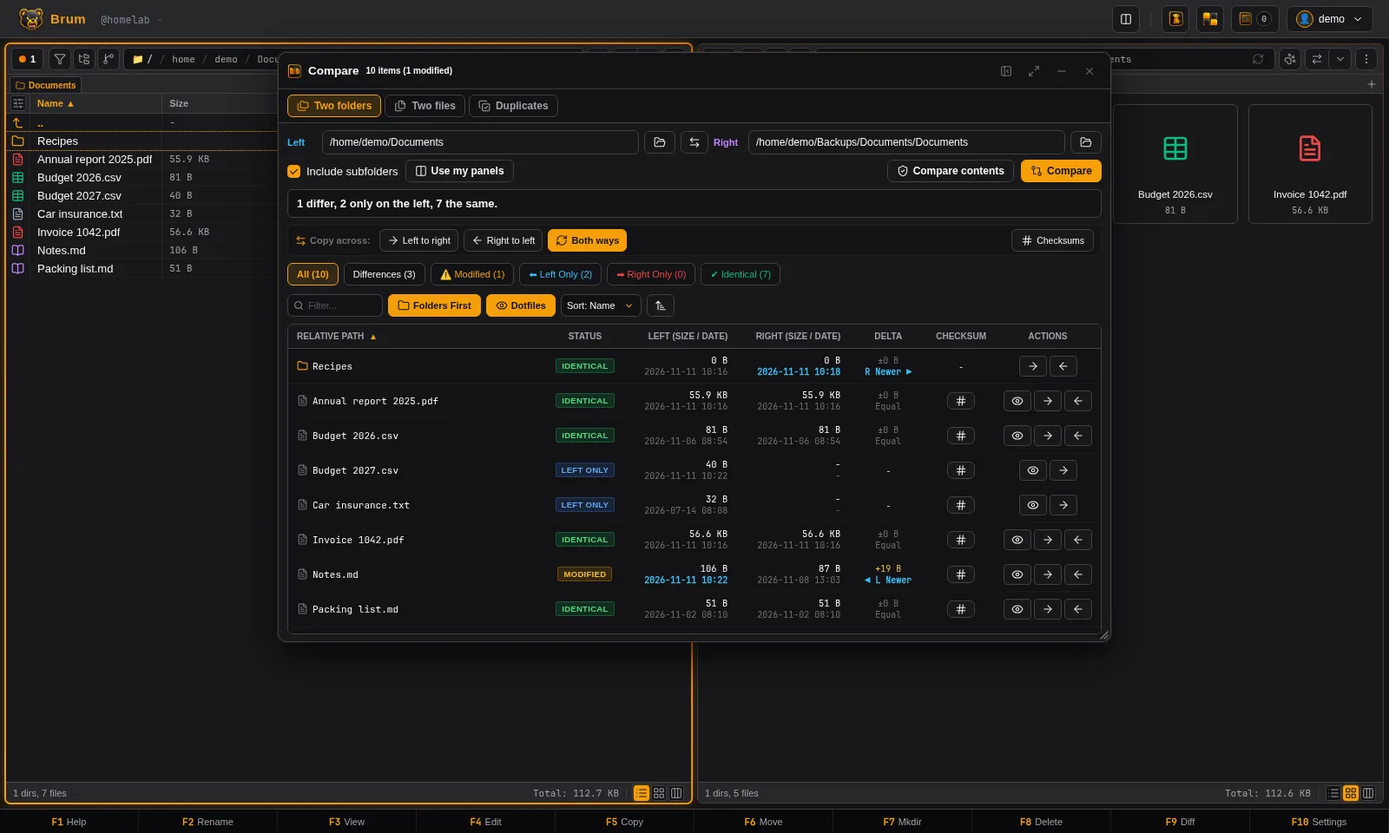
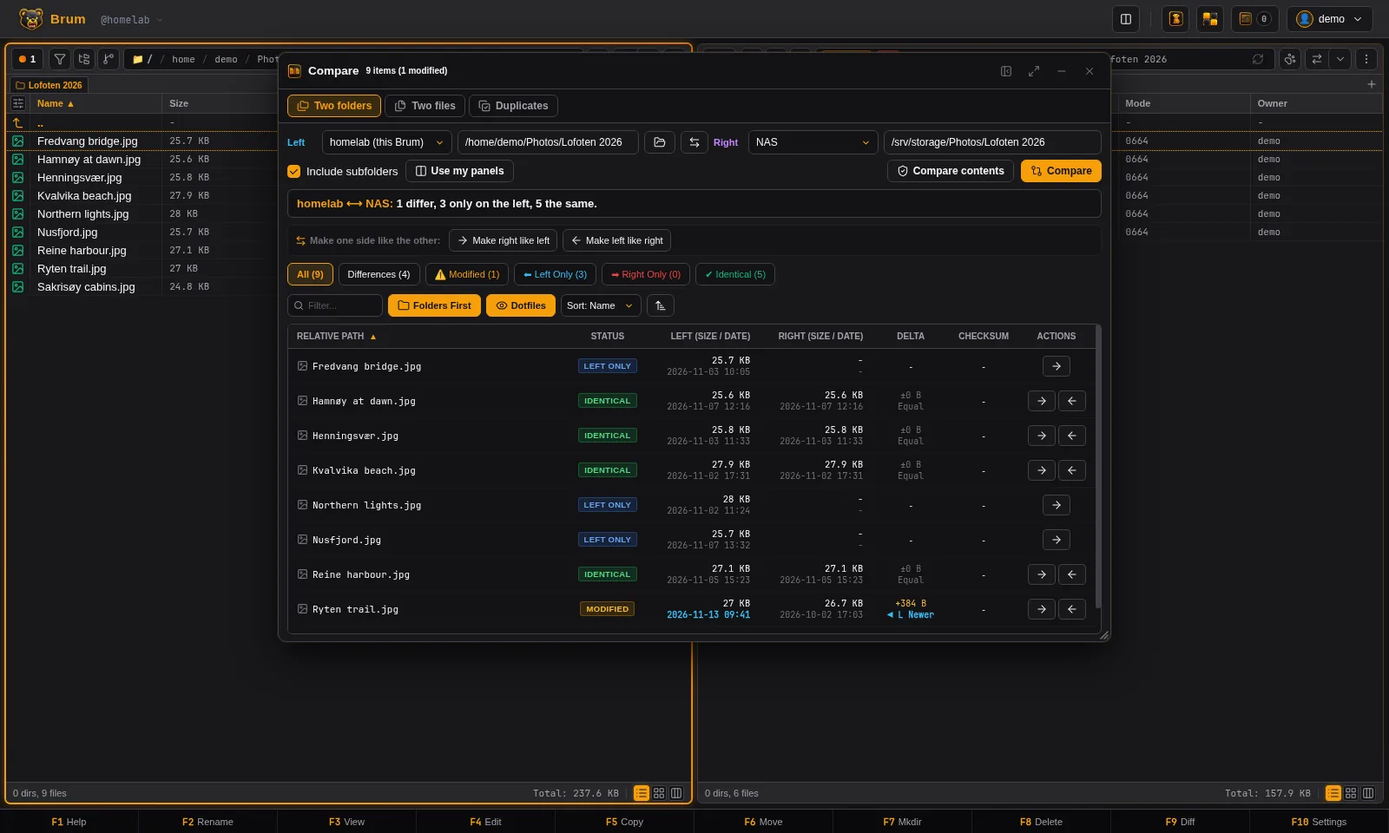
docs: lead with Brum as the file manager for all your machines; Fleet guide and security page (closes #194)

diff --git a/README.md b/README.md
@@ -1,8 +1,8 @@
 # <img src="assets/brum_commanderdog_legacy.webp" alt="Brum Logo" height="36" style="vertical-align: -6px; margin-right: 8px;" /> Brum
 
 <div align="center">
-  <img src="assets/showcase-hero.webp" alt="Brum with two panels: photo thumbnails on the left, the home folder on the right, and the built-in terminal below" width="800" />
-  <p><em>Multi-Pane Web Environment (File Commander/Manager) — By Woofson</em></p>
+  <img src="assets/showcase-hero.webp" alt="Brum with three panels on three machines: photos on this computer, the same folder on the NAS, and films on the media PC" width="800" />
+  <p><em>All your machines, disks and cloud storage in one file manager — By Woofson</em></p>
   <p>
     <a href="https://github.com/Woofson/brum/releases/latest"><img src="https://img.shields.io/badge/version-v1.23.0-amber?style=flat-square&color=f59e0b" alt="Version" /></a>
     <a href="https://crates.io/crates/brum"><img src="https://img.shields.io/crates/v/brum?style=flat-square&color=f59e0b" alt="Crates.io" /></a>
@@ -14,6 +14,8 @@
   </p>
 </div>
 
+Install Brum on each of your machines (desktop, NAS, media PC, a server in a cupboard), join them with a pairing code, and every file on every one of them is a pane away. Next to your local disks, NAS shares and cloud storage, in the browser or as a desktop app.
+
 ---
 
 > [!WARNING]
@@ -21,18 +23,46 @@
 > Brum is designed and intended to run on **local workstations, homelabs, and private overlay networks** (such as Tailscale, NetBird, or WireGuard).
 >
 > **Never expose Brum directly to the public internet.**
-> As a comprehensive administrative environment featuring host filesystem management, integrated terminal PTY execution, and power tools, exposing Brum directly without a trusted VPN or authenticated overlay network introduces significant attack surface. If remote access is necessary, always access Brum through a private overlay mesh or an authenticated VPN. See the [Reverse Proxy & Mesh VPN Guide](manuals/reverse-proxy.md) for recommended deployment topologies.
+> As a comprehensive administrative environment featuring host filesystem management, integrated terminal PTY execution, and power tools, exposing Brum directly without a trusted VPN or authenticated overlay network introduces significant attack surface. If remote access is necessary, always access Brum through a private overlay mesh or an authenticated VPN. See the [Reverse Proxy & Mesh VPN Guide](manuals/reverse-proxy.md) for recommended deployment topologies. How security problems are reported and fixed: [Security](SECURITY.md).
+
+---
+
+## One place for all your machines
+
+Brum calls your machines together a **Fleet**. Each machine runs its own Brum; the one you open in the browser reaches the others for you.
+
+* **Any machine in any pane.** Open the NAS on the left and the media PC on the right, or four machines at once, with the same keys, tabs and tools as your own disks.
+* **Copies straight from machine to machine.** <kbd>F5</kbd> and <kbd>F6</kbd> between two machines are done by the Brum servers, not the browser: the receiving machine fetches the files directly, and only when the two cannot reach each other does your Brum pass them along. Close the tab and the copy carries on.
+* **Copies you can trust.** Every file is checked with SHA-256 on both machines before it replaces anything (on by default), a broken copy never overwrites a good file, and **Retry** picks up a large file where it stopped.
+* **Compare and sync between machines.** Compare a folder on your desktop with its copy on the NAS, see what is missing or changed, preview what a one-way sync would do, and run it or save it as a scheduled backup.
+* **All machines at once.** Search every machine for a file, check one file across all of them, see free space everywhere, and send files to several machines in one go. Group machines with tags to pick them quickly.
+* **Joining takes a code, not a password.** Your main Brum shows a code that works once, for ten minutes; type it on the new machine and the two trust each other. No secrets copied around by hand.
+* **Who can touch what, and who did.** Folder rules per machine (read only, no access, or open a folder to someone), and an activity log of who changed which files, with a CSV export.
+
+**Not a server panel with a file tab.** Tools such as Cockpit or Webmin manage servers and include a file browser. Brum is the other way round: a full two-pane file manager whose job is your files, wherever they are, with server tools (terminal, log viewer, Git) added for convenience. It does not manage services, packages or users of the operating system.
+
+<table>
+  <tr>
+    <td width="50%"><img src="assets/showcase-transfer.webp" alt="A film being copied from the media PC to the NAS, with a finished copy below it marked SHA-256 checked" /><br><sub><b>Copies between machines.</b> Media PC to NAS, directly, with the speed, time left and a checksum check for every file.</sub></td>
+    <td width="50%"><img src="assets/showcase-compare.webp" alt="Compare showing a photo folder on this computer and on the NAS: one changed, three only on this computer, five the same" /><br><sub><b>Compare across machines.</b> A photo folder on this computer against its copy on the NAS, then make one side like the other.</sub></td>
+  </tr>
+  <tr>
+    <td width="50%"><img src="assets/showcase-fleetwide.webp" alt="The All machines window: a search for invoices finds files on three machines" /><br><sub><b>All machines.</b> One search across every machine, grouped by machine; open any hit in a pane.</sub></td>
+    <td width="50%"><img src="assets/showcase-backup.webp" alt="Backup and Sync with three backups and their status" /><br><sub><b>Backup &amp; Sync.</b> Scheduled backups to other Fleet machines, drives, SFTP, rclone remotes and Proton Drive, with old versions kept and restore.</sub></td>
+  </tr>
+</table>
+
+To set up a main Brum and two more machines, see [Several machines in ten minutes](#several-machines-in-ten-minutes).
 
 ---
 
 ## Why Brum?
 
-Brum is a file manager you use in the browser, written in Rust. It follows the classic two-pane style of Total Commander and Midnight Commander, so the keyboard does most of the work, and adds a set of everyday tools (see [Built-in Tools](#built-in-tools)).
+Beyond the Fleet, Brum is a file manager you use in the browser, written in Rust. It follows the classic two-pane style of Total Commander and Midnight Commander, so the keyboard does most of the work, and adds a set of everyday tools (see [Built-in Tools](#built-in-tools)).
 
 * **Up to four panes**, each with its own tabs. Copy, move and compare between them with the classic <kbd>F1</kbd>–<kbd>F10</kbd> keys, drag and drop, or touch.
-* **Local and remote in one view**: your disks and USB drives next to SFTP, SMB, WebDAV, S3, NFS and Proton Drive. You can also browse inside archives and disk images.
+* **Local and remote storage in one view**: your disks and USB drives next to SFTP, SMB, WebDAV, S3, NFS and Proton Drive. You can also browse inside archives and disk images.
 * **Several users**, each limited to their own folders, with optional read-only accounts and sign-in through your own identity provider (OIDC).
-* **Fleet**: manage other Brum servers from the same window.
 * **Runs where you need it**: as a desktop app on Linux and Windows, in Docker on a server or NAS, or as a background service.
 
 ---
@@ -42,10 +72,6 @@ Brum is a file manager you use in the browser, written in Rust. It follows the c
 <table>
   <tr>
     <td width="50%"><img src="assets/showcase-light.webp" alt="Brum in the light theme, Woofsons Amber Zink" /><br><sub><b>Two themes.</b> Woofsons Amber Charcoal and Woofsons Amber Zink (shown), with list, grid and column views.</sub></td>
-    <td width="50%"><img src="assets/showcase-backup.webp" alt="Backup and Sync with three backups and their status" /><br><sub><b>Backup &amp; Sync.</b> Plain status lines, schedules, old versions kept, and restore. To folders, SFTP, rclone remotes, Fleet machines and Proton Drive.</sub></td>
-  </tr>
-  <tr>
-    <td width="50%"><img src="assets/showcase-compare.webp" alt="Compare showing two folders with one changed file and two files only on the left" /><br><sub><b>Compare.</b> Two folders, two files or duplicates, and copy the differences across in either direction.</sub></td>
     <td width="50%"><img src="assets/showcase-viewer.webp" alt="A photo open in the picture viewer" /><br><sub><b>Viewers.</b> Pictures, documents, audio and video open in place, with the next file one key away.</sub></td>
   </tr>
 </table>
@@ -91,6 +117,18 @@ cargo run --release        # Open http://localhost:3140 in your browser
 > - **Desktop & Standalone**: Standalone desktop mode (`brum` / `brum -s`) automatically authorizes the active local operating system user without requiring a password.
 > - **Linux Host Accounts (PAM)**: When running on Linux, any valid local system account can log in directly via PAM.
 > - **Existing Databases**: Upgrades and existing installations retain their previously configured passwords.
+
+### Several machines in ten minutes
+
+A main Brum (the one you open in the browser) and two more machines, for example a NAS and a media PC:
+
+1. **Install Brum on all three** (any of the ways above). On the two extra machines, let Brum listen on the network: `host = "0.0.0.0"` under `[server]` in `config.toml` (or the machine's overlay address, such as its Tailscale or NetBird IP), then restart it.
+2. **Make a code on the main Brum**: sign in as admin, click the machine name at the top left (**Fleet Control**) → **Manage Fleet** → **Add machine**. Brum shows a code such as `9WBN-C4C7` that works once, for ten minutes, together with the command to run.
+3. **Join from the NAS**: run `sudo brum join http://main-brum:3140 9WBN-C4C7 --name nas` and restart Brum there. Or open Brum on the NAS and use **Manage Fleet** → **Join a Fleet**, which restarts by itself.
+4. **Repeat for the media PC** with a new code.
+5. **Use them**: on the main Brum, the paw button in a pane's toolbar (**Places & Fleet**) lists your machines; pick one to open it in that pane. **Tools → All machines** searches all three at once.
+
+People need an account with the same name on each machine they use. Details, including what to know about trust and unencrypted networks: [Several machines (Fleet)](manuals/fleet.md).
 
 ---
 
@@ -148,6 +186,7 @@ Everything below ships inside the single Brum program. Tools that rely on a prog
 
 All operational runbooks, platform guides, and security manuals are available on the [**Official GitHub Wiki**](https://github.com/Woofson/brum/wiki) and organized in [**`manuals/`**](manuals/README.md):
 
+* [**Several machines (Fleet)**](manuals/fleet.md) — Setting up a main Brum and more machines, pairing codes, copies, compare and sync, All machines, folder rules, activity log.
 * [**Power Tools & Chewtoys Manual**](manuals/chewtoys.md) — 3D CAD Studio, Splitter & Combiner, PDF Studio, Sharing Center, Disk Usage, Notes, Media Player, Terminal, Vaults.
 * [**Keyboard Shortcuts & Navigation**](manuals/shortcuts.md) — Orthodox <kbd>F1</kbd>–<kbd>F10</kbd> keys, media player keys, touch gestures.
 * [**Configuration Guide (`config.toml`)**](manuals/configuration.md) — Master config options, storage roots, sandboxing.
@@ -161,6 +200,7 @@ All operational runbooks, platform guides, and security manuals are available on
 * [**GitHub Milestones & Roadmap**](https://github.com/Woofson/brum/milestones) — Active milestones, roadmap vision, and release targets.
 * [**GitHub Issues & Sprint Backlog**](https://github.com/Woofson/brum/issues) — Feature backlog, bug triage, and active sprint items.
 * [**Changelog**](CHANGELOG.md) — Release notes and version history.
+* [**Security**](SECURITY.md) — How to report a security problem, and every published advisory with the version that fixed it.
 
 ---
 

diff --git a/manuals/fleet.md b/manuals/fleet.md
@@ -1,0 +1,129 @@
+# Several Machines (Fleet)
+
+Brum calls your machines together a **Fleet**: a desktop, a NAS, a media PC, a server in a cupboard. Each machine runs its own Brum. The one you open in the browser, your **main Brum**, reaches the others for you, so every file on every machine is a pane away.
+
+This page covers setting one up, what you can do with it, and who can do what. All settings are in the [Configuration Guide](configuration.md#fleet-federation-defaults--user-overrides).
+
+---
+
+## How it fits together
+
+* **Each machine keeps its own files and its own rules.** Nothing is copied to a central place. When you open the NAS in a pane, your main Brum asks the NAS's Brum for the list, and the NAS's Brum decides what you may see.
+* **One login for all machines.** The machines share a secret that signs logins, so a login on the main Brum is accepted by the others. Pairing codes hand out that secret for you.
+* **Accounts with the same name.** A login is accepted, but the account must exist on the machine too. Admins and people who use several machines need an account with the same name on each one.
+* **Only your private network.** Brum is made for your home network or an overlay network (Tailscale, NetBird, WireGuard). Never put any machine of the Fleet on the open internet.
+
+---
+
+## Setting up: a main Brum and two machines
+
+The example uses a main Brum and two more machines, a NAS and a media PC. It takes about ten minutes.
+
+### 1. Install Brum on every machine
+
+Any of the ways in the [Installation Guide](../INSTALL.md) works, and machines may mix systems: Linux, Windows, Docker.
+
+On the machines that join, Brum must listen on the network, not only on the machine itself:
+
+* **Linux and Windows**: set `host = "0.0.0.0"` under `[server]` in `config.toml`, or the machine's overlay address (for example its Tailscale or NetBird IP) to listen there only. Restart Brum.
+* **Docker**: nothing to do; `-p 3140:3140` already makes it reachable.
+
+Let port `3140` through the machine's firewall from the main Brum.
+
+### 2. Make a code on the main Brum
+
+Sign in as admin, click the machine name at the top left (**Fleet Control**) → **Manage Fleet** → **Add machine**. Brum shows a code such as `9WBN-C4C7`, with the commands to run. The code works **once**, for **10 minutes**.
+
+### 3. Join from the new machine
+
+Pick one of these on the NAS:
+
+* **Terminal** (Linux): `sudo brum join http://main-brum:3140 9WBN-C4C7 --name nas`, then restart Brum there.
+* **PowerShell as administrator** (Windows): `& "C:\Program Files\Brum\brum.exe" join http://main-brum:3140 9WBN-C4C7 --name nas`, then restart Brum there.
+* **Brum's own page** on the NAS (any system, and the way to go for Docker): sign in as admin, **Fleet Control** → **Manage Fleet** → **Join a Fleet**, type the main Brum's address and the code. Brum restarts by itself.
+
+`main-brum` stands for the main Brum's address as the NAS sees it, such as `http://192.168.1.10:3140` or its overlay name. `--name` is the name the NAS is listed under; without it, the machine's own name is used.
+
+The main Brum shows straight away that the NAS joined. Both machines now list each other as Fleet machines, marked `paired`.
+
+### 4. Repeat for the media PC
+
+Make a new code on the main Brum and join from the media PC the same way.
+
+### 5. Use them
+
+* **In a pane**: the paw button in a pane's toolbar (**Places & Fleet**) lists your machines; pick one to open it in that pane. The pane shows the machine's name next to the path.
+* **Everywhere at once**: **Tools → All machines**.
+
+### Adding machines by hand instead
+
+You can also list machines in `config.toml` under `[[fleet.nodes]]` and give all of them the same secret yourself (`BRUM_JWT_SECRET` or `BRUM_JWT_SECRET_FILE`), or use an API token per machine. See [Shared Cluster Secret](configuration.md#1-shared-cluster-secret-brum_jwt_secret--brum_jwt_secret_file). Machines from `config.toml` and paired machines can be mixed.
+
+---
+
+## Working across machines
+
+### Panes on different machines
+
+Every pane can show a different machine, with up to four panes at once. Keys, tabs, views, viewers and the right-click menu work the same as on your own disks. Each machine can have a colour and tags, set in **Manage Fleet**.
+
+### Copying and moving
+
+With the two panes on different machines, <kbd>F5</kbd> (copy) and <kbd>F6</kbd> (move), and drag and drop, are done by the Brum servers, not by the browser:
+
+* **Direct**: the receiving machine fetches the files straight from the sending one. When the two cannot reach each other, your main Brum passes the files between them. The task list says which happened.
+* **Keeps going**: the copy runs on the main Brum. Closing or reloading the tab does not stop it.
+* **Checked**: with **Security & Integrity Checks** on (the shield in the header, on by default), each file's SHA-256 is worked out on both machines and compared before the copy replaces anything. Files are written under a temporary name first, so a broken copy never overwrites a good file. A move removes the original only after its copy is checked.
+* **Pause, Resume, Stop, Retry**: in the task list. **Retry** copies only what did not make it, and a large file continues where it stopped.
+
+The details are in [Copying and Moving Between Machines](configuration.md#5-copying-and-moving-between-machines).
+
+### Compare and sync
+
+**Tools → Compare → Two folders** compares folders on any two machines: pick the machine for each side, or click **Use my panels**.
+
+* **Quick or certain**: **Compare** looks at sizes and dates; **Compare contents** also compares checksums on each machine.
+* **Make one side like the other**: preview what a one-way sync would copy, replace and remove, then run it, or save it as a scheduled backup in Backup & Sync.
+
+### All machines
+
+**Tools → All machines** works on several machines at once. Tick the machines, or pick a group (the tags you gave them):
+
+* **Search**: find files by name on every ticked machine; results are grouped by machine, and a click opens the hit in a pane.
+* **Same file**: check one path on every machine: which have it, which differ, and compare two of them.
+* **Free space**: the drives of every machine side by side.
+* **Send**: copy the files selected in a pane to several machines in one go (also from the right-click menu: **Copy to…** → **Send to machines…**).
+
+### Backups to other machines
+
+**Backup & Sync** can back up to another Fleet machine, with schedules, old versions and restore. See [Backup & Sync](chewtoys.md).
+
+---
+
+## Who can do what
+
+* **Accounts**: each machine uses its own account settings (home folder, allowed folders, read-only role) for the person signed in, so a person's limits on the NAS are the NAS's, not the main Brum's.
+* **Folder rules**: on each machine, **Admin Panel → Folder Rules** says who may read a folder, write in it, or not touch it. See [Folder Rules](configuration.md#folder-rules).
+* **Read-only machines**: a machine set to `read_only = true` is never written to.
+* **Activity log**: each machine records who changed which files on it, also when the change came through the Fleet: **Admin Panel → Activity Log**, with a CSV download. See [Activity Log](configuration.md#activity-log).
+
+---
+
+## Safety
+
+* **Trust**: a machine that holds the Fleet's secret can sign logins all others accept. Only pair machines you trust.
+* **Unencrypted networks**: over plain `http`, the secret travels unencrypted while pairing. Pair over your own network or an overlay network, or put Brum behind `https`.
+* **Removing a machine**: **Manage Fleet** → **Add machine** lists the paired machines with **Remove**. That takes it off the list; to shut it out completely, change the Fleet's secret and pair the others again.
+* **Reports**: see [Security](https://github.com/Woofson/brum/blob/main/SECURITY.md) for how to report a problem and the published advisories.
+
+---
+
+## When something does not work
+
+| What you see | What to check |
+| :--- | :--- |
+| The machine shows as offline | Brum runs there, listens on the network (`host = "0.0.0.0"`, not `127.0.0.1`), and the firewall lets port `3140` through from the main Brum. |
+| The machine says "unauthorized" | Both machines share the same secret (pair again with a new code), and your account exists on that machine with the same name. |
+| "This machine already uses a shared secret" when joining | The machine has `BRUM_JWT_SECRET`, `jwt_secret` or a secret file set. Remove it to join with a code, or give it the Fleet's secret by hand. |
+| "The code is wrong or has expired" | Codes work once, for 10 minutes. Make a new one. |
+| A copy goes through the browser and asks you to keep the tab open | The other machine runs Brum 1.22 or older. Update it. |

diff --git a/SECURITY.md b/SECURITY.md
@@ -1,0 +1,48 @@
+# Security
+
+Brum reaches the files of every machine in your Fleet, so its security matters. This page says how to report a problem, what happens next, and every problem found so far with the version that fixed it.
+
+## Reporting a problem
+
+Report security problems **privately**, never in a public issue, discussion or pull request:
+
+* On GitHub, open the repository's **Security** tab and click **Report a vulnerability**. Only the maintainer sees the report.
+
+Helpful to include: the Brum version (shown in **About**, or `brum --version`), the system (Linux, Windows, Docker), what someone could do, and the steps to show it. A short report is fine; questions come back through the same private report.
+
+## What happens next
+
+Brum has one maintainer, so these are aims rather than promises:
+
+1. **Answer**: within a few days, saying whether the problem is confirmed.
+2. **Fix**: in a new release, as soon as it is ready. Serious problems get their own release instead of waiting for the next planned one.
+3. **Publish**: when the fixed release is out, a security advisory goes up on GitHub with what was wrong, who was affected, and the version that fixed it. Until then nothing about the problem is made public, also not in commit messages.
+4. **Credit**: if you would like to be named in the advisory, say so in your report.
+
+Only the latest release gets fixes, so keep Brum updated. New releases are listed on the [releases page](https://github.com/Woofson/brum/releases); on GitHub, **Watch → Custom → Releases** sends you a notice for each one.
+
+## Published advisories
+
+| Severity | Problem | Affected | Fixed in | Published |
+| :--- | :--- | :--- | :--- | :--- |
+| Low | [Unauthenticated configuration endpoint reveals Fleet machine names and addresses](https://github.com/Woofson/brum/security/advisories/GHSA-8rgf-8pgm-v444) | 1.22.0 and older | 1.23.0 | 2026-11-15 |
+| Low | [Unauthenticated system status reveals the service account name and home folder](https://github.com/Woofson/brum/security/advisories/GHSA-6p5c-gr9f-gxx7) | 1.21.0 and older | 1.22.0 | 2026-11-14 |
+| Medium | [Windows all-users install keeps the service database readable to local users](https://github.com/Woofson/brum/security/advisories/GHSA-9qgm-hfjj-hxq4) | 1.21.0 | 1.22.0 | 2026-11-14 |
+| High | [Windows all-users install lets any local user run code as SYSTEM and read Brum's secrets](https://github.com/Woofson/brum/security/advisories/GHSA-385p-4c6h-62cr) | 1.6.2 to 1.20.0 | 1.21.0 | 2026-11-12 |
+| High | [Stored credentials and the node-local login signing secret readable from the database file](https://github.com/Woofson/brum/security/advisories/GHSA-f63j-9gj5-cxcc) | 1.17.0 and older | 1.18.0 | 2026-11-05 |
+| Medium | [Notes export writes files outside the notes folder](https://github.com/Woofson/brum/security/advisories/GHSA-rc6h-m6rf-x5j7) | 0.8.8 to 1.16.0 | 1.17.0 | 2026-11-04 |
+| High | [Unauthenticated file read when Brum runs next to a frontend folder](https://github.com/Woofson/brum/security/advisories/GHSA-qvqw-wx9j-7fcr) | 0.8.8 to 1.16.0 | 1.17.0 | 2026-11-04 |
+| High | [Authenticated arbitrary file read through Chewtoy asset paths](https://github.com/Woofson/brum/security/advisories/GHSA-pv23-5739-f2h3) | 0.8.8 to 1.16.0 | 1.17.0 | 2026-11-04 |
+| High | [Shell command injection through file names in Custom Actions and Open With](https://github.com/Woofson/brum/security/advisories/GHSA-vqc6-335r-r2m4) | before 1.16.0 | 1.16.0 | 2026-11-03 |
+| Critical | [Access control and injection weaknesses in Brum before 1.15.0](https://github.com/Woofson/brum/security/advisories/GHSA-jjmj-g7wj-5q2c) | before 1.15.0 | 1.15.0 | 2026-11-02 |
+
+The full list, always current: [github.com/Woofson/brum/security/advisories](https://github.com/Woofson/brum/security/advisories).
+
+## Running Brum safely
+
+* **Never on the open internet.** Run Brum on your own network, or reach it through an overlay network such as Tailscale, NetBird or WireGuard. Brum includes a terminal and full file access; it is not built to face the internet directly. See the [Reverse Proxy & Mesh VPN Guide](manuals/reverse-proxy.md).
+* **Use `https` across networks you do not control**, for example with a reverse proxy, so logins and pairing codes do not travel unencrypted.
+* **Keep every machine updated.** In a Fleet, update all machines, not only the main Brum.
+* **Give people only what they need**: their own folders, read-only accounts where that is enough, and [folder rules](manuals/configuration.md#folder-rules) for shared places. The [activity log](manuals/configuration.md#activity-log) shows who changed which files.
+* **Pair only machines you trust.** A machine in the Fleet can sign logins the other machines accept. See [Several machines (Fleet)](manuals/fleet.md#safety).
+* **Protect the files next to the database**: `brum-secrets.key` unlocks saved passwords, and `fleet-secret.key` signs Fleet logins. Brum makes them readable to itself only; keep it that way, and keep them out of shared backups.

diff --git a/manuals/README.md b/manuals/README.md
@@ -11,6 +11,7 @@ Welcome to the **Brum** manual and documentation index.
 ### Core Features & Usage
 | Manual | Description |
 | :--- | :--- |
+| [**`fleet.md`**](fleet.md) | Several machines (Fleet): a main Brum plus more machines joined with pairing codes, copies and compare between machines, All machines, folder rules and the activity log |
 | [**`chewtoys.md`**](chewtoys.md) | Comprehensive manual for Native Core Functions & Chewtoys (3D CAD Studio, Splitter & Combiner, PDF Studio, Sharing Center, Disk Usage, Notes, Media Player, Terminal, Format Converter, Batch Renamer, Vaults, Fleet Manager) |
 | [**`plugin-development.md`**](plugin-development.md) | Modular Chewtoy & Plugin development guide: `.grr` package standard, `plugin.toml`, `window.Brum` SDK & Admin RBAC |
 | [**`shortcuts.md`**](shortcuts.md) | Complete orthodox keyboard shortcuts (<kbd>F1</kbd>–<kbd>F10</kbd>), panel controls, player hotkeys, and mouse/touch gestures |
